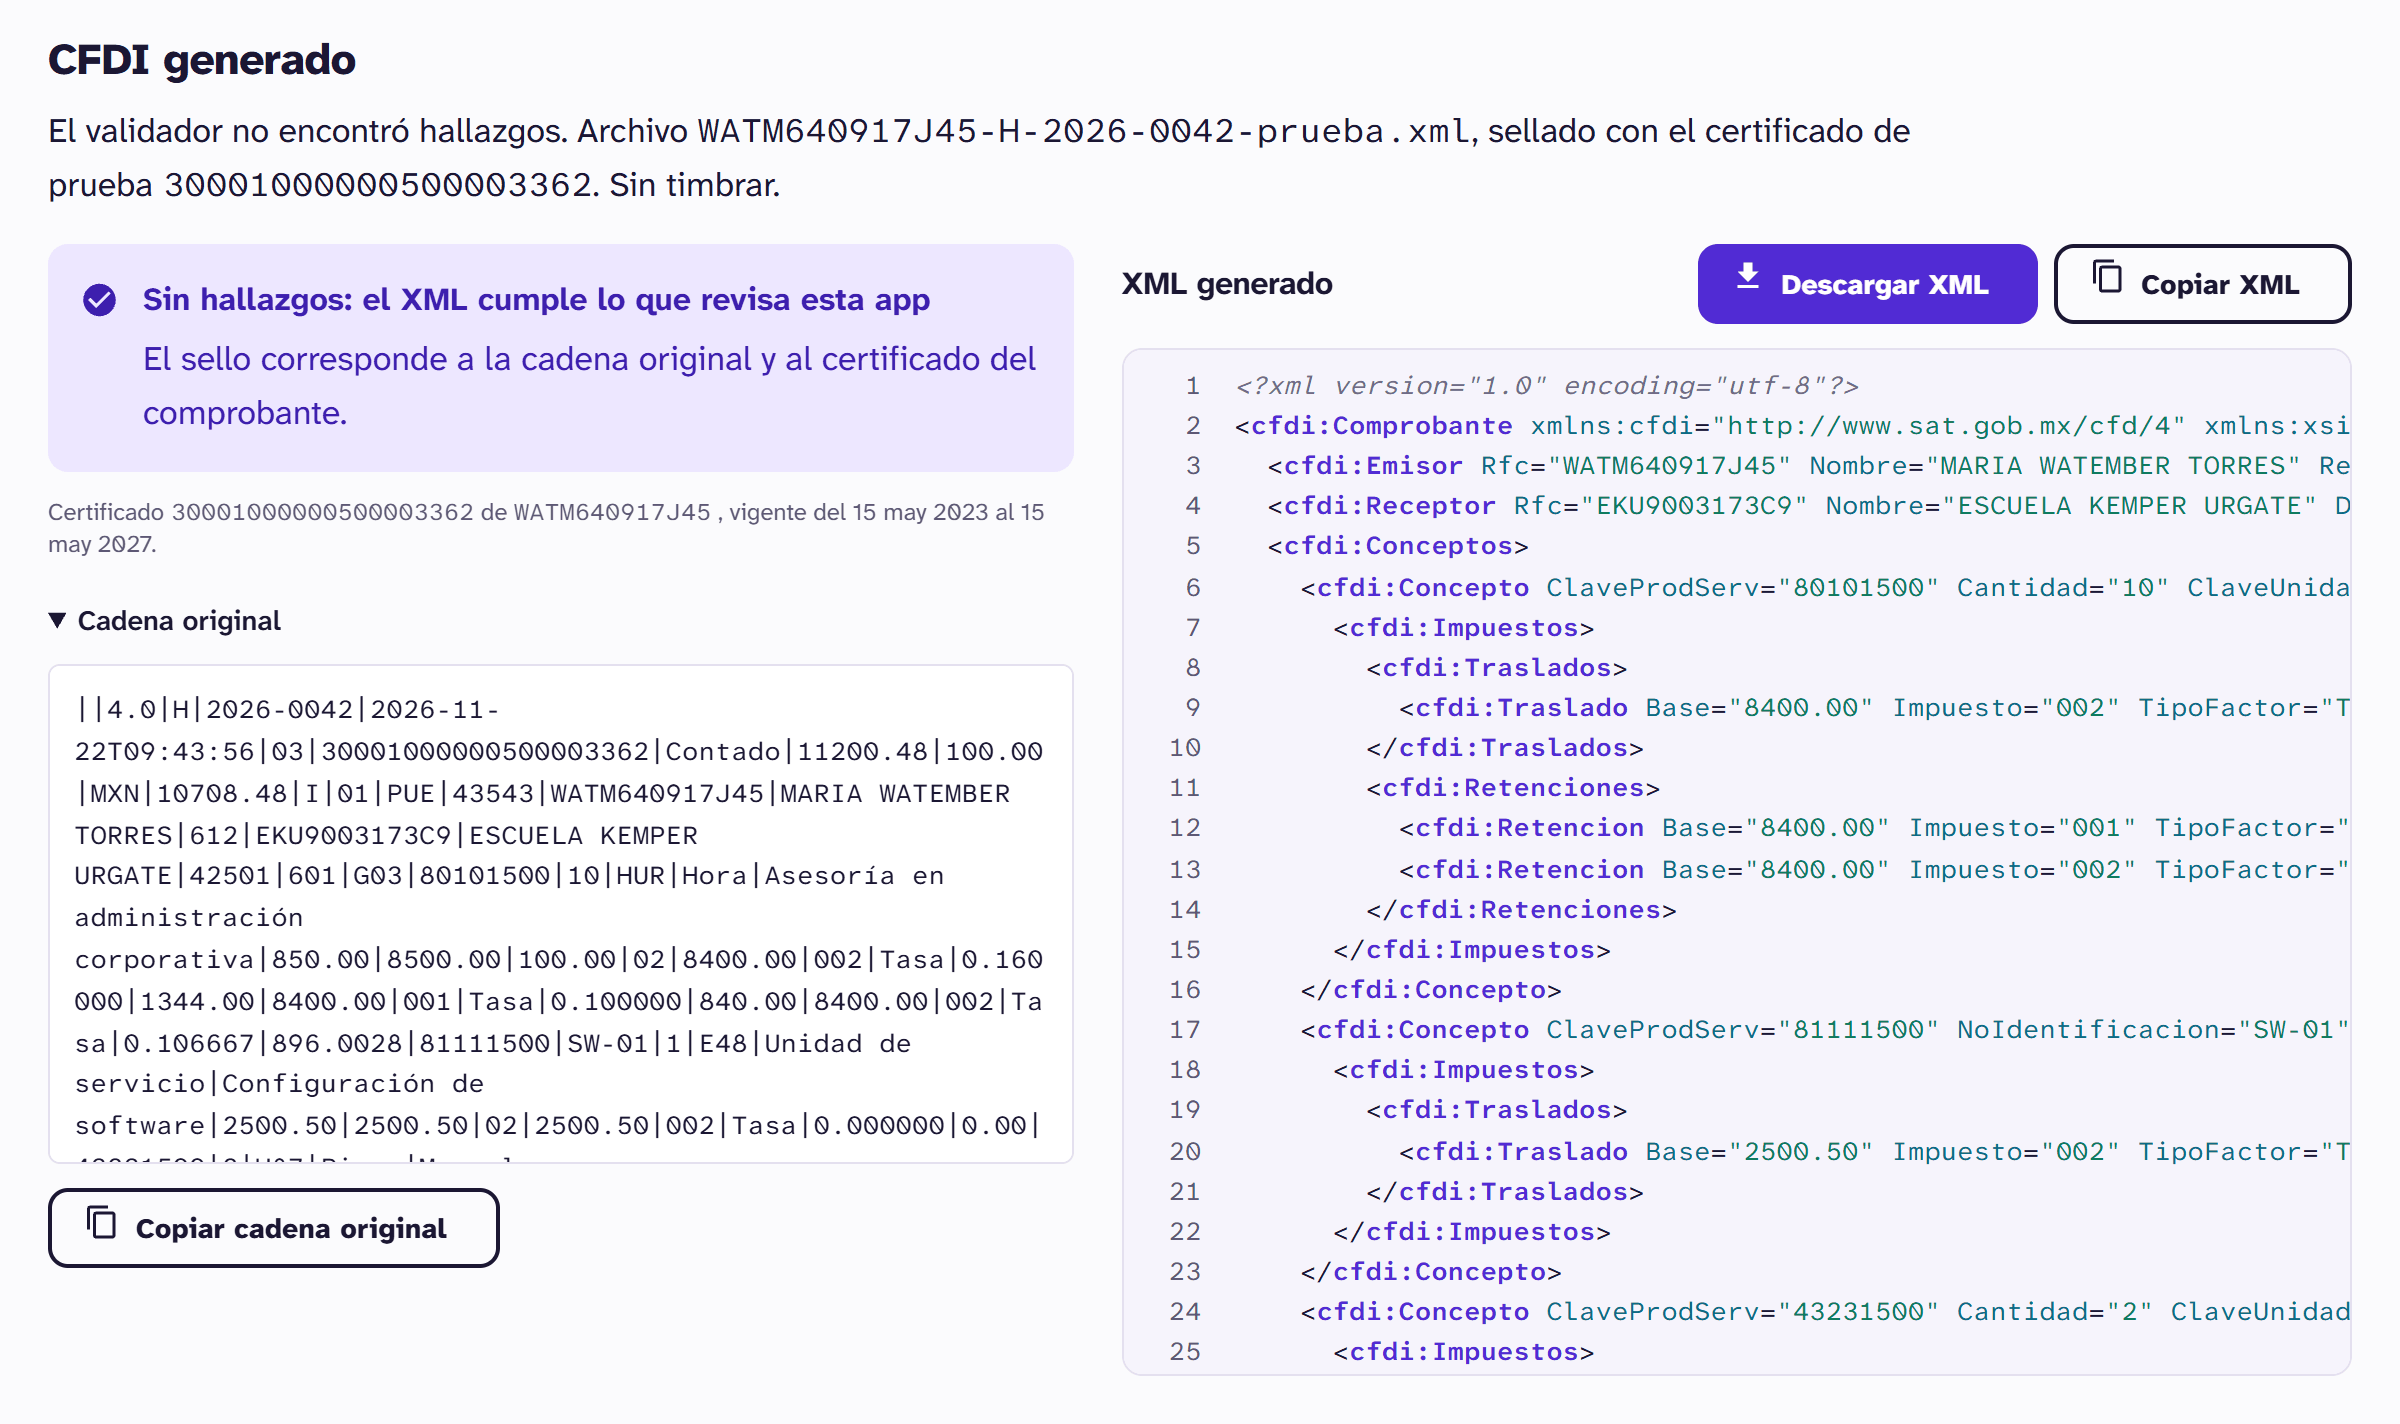
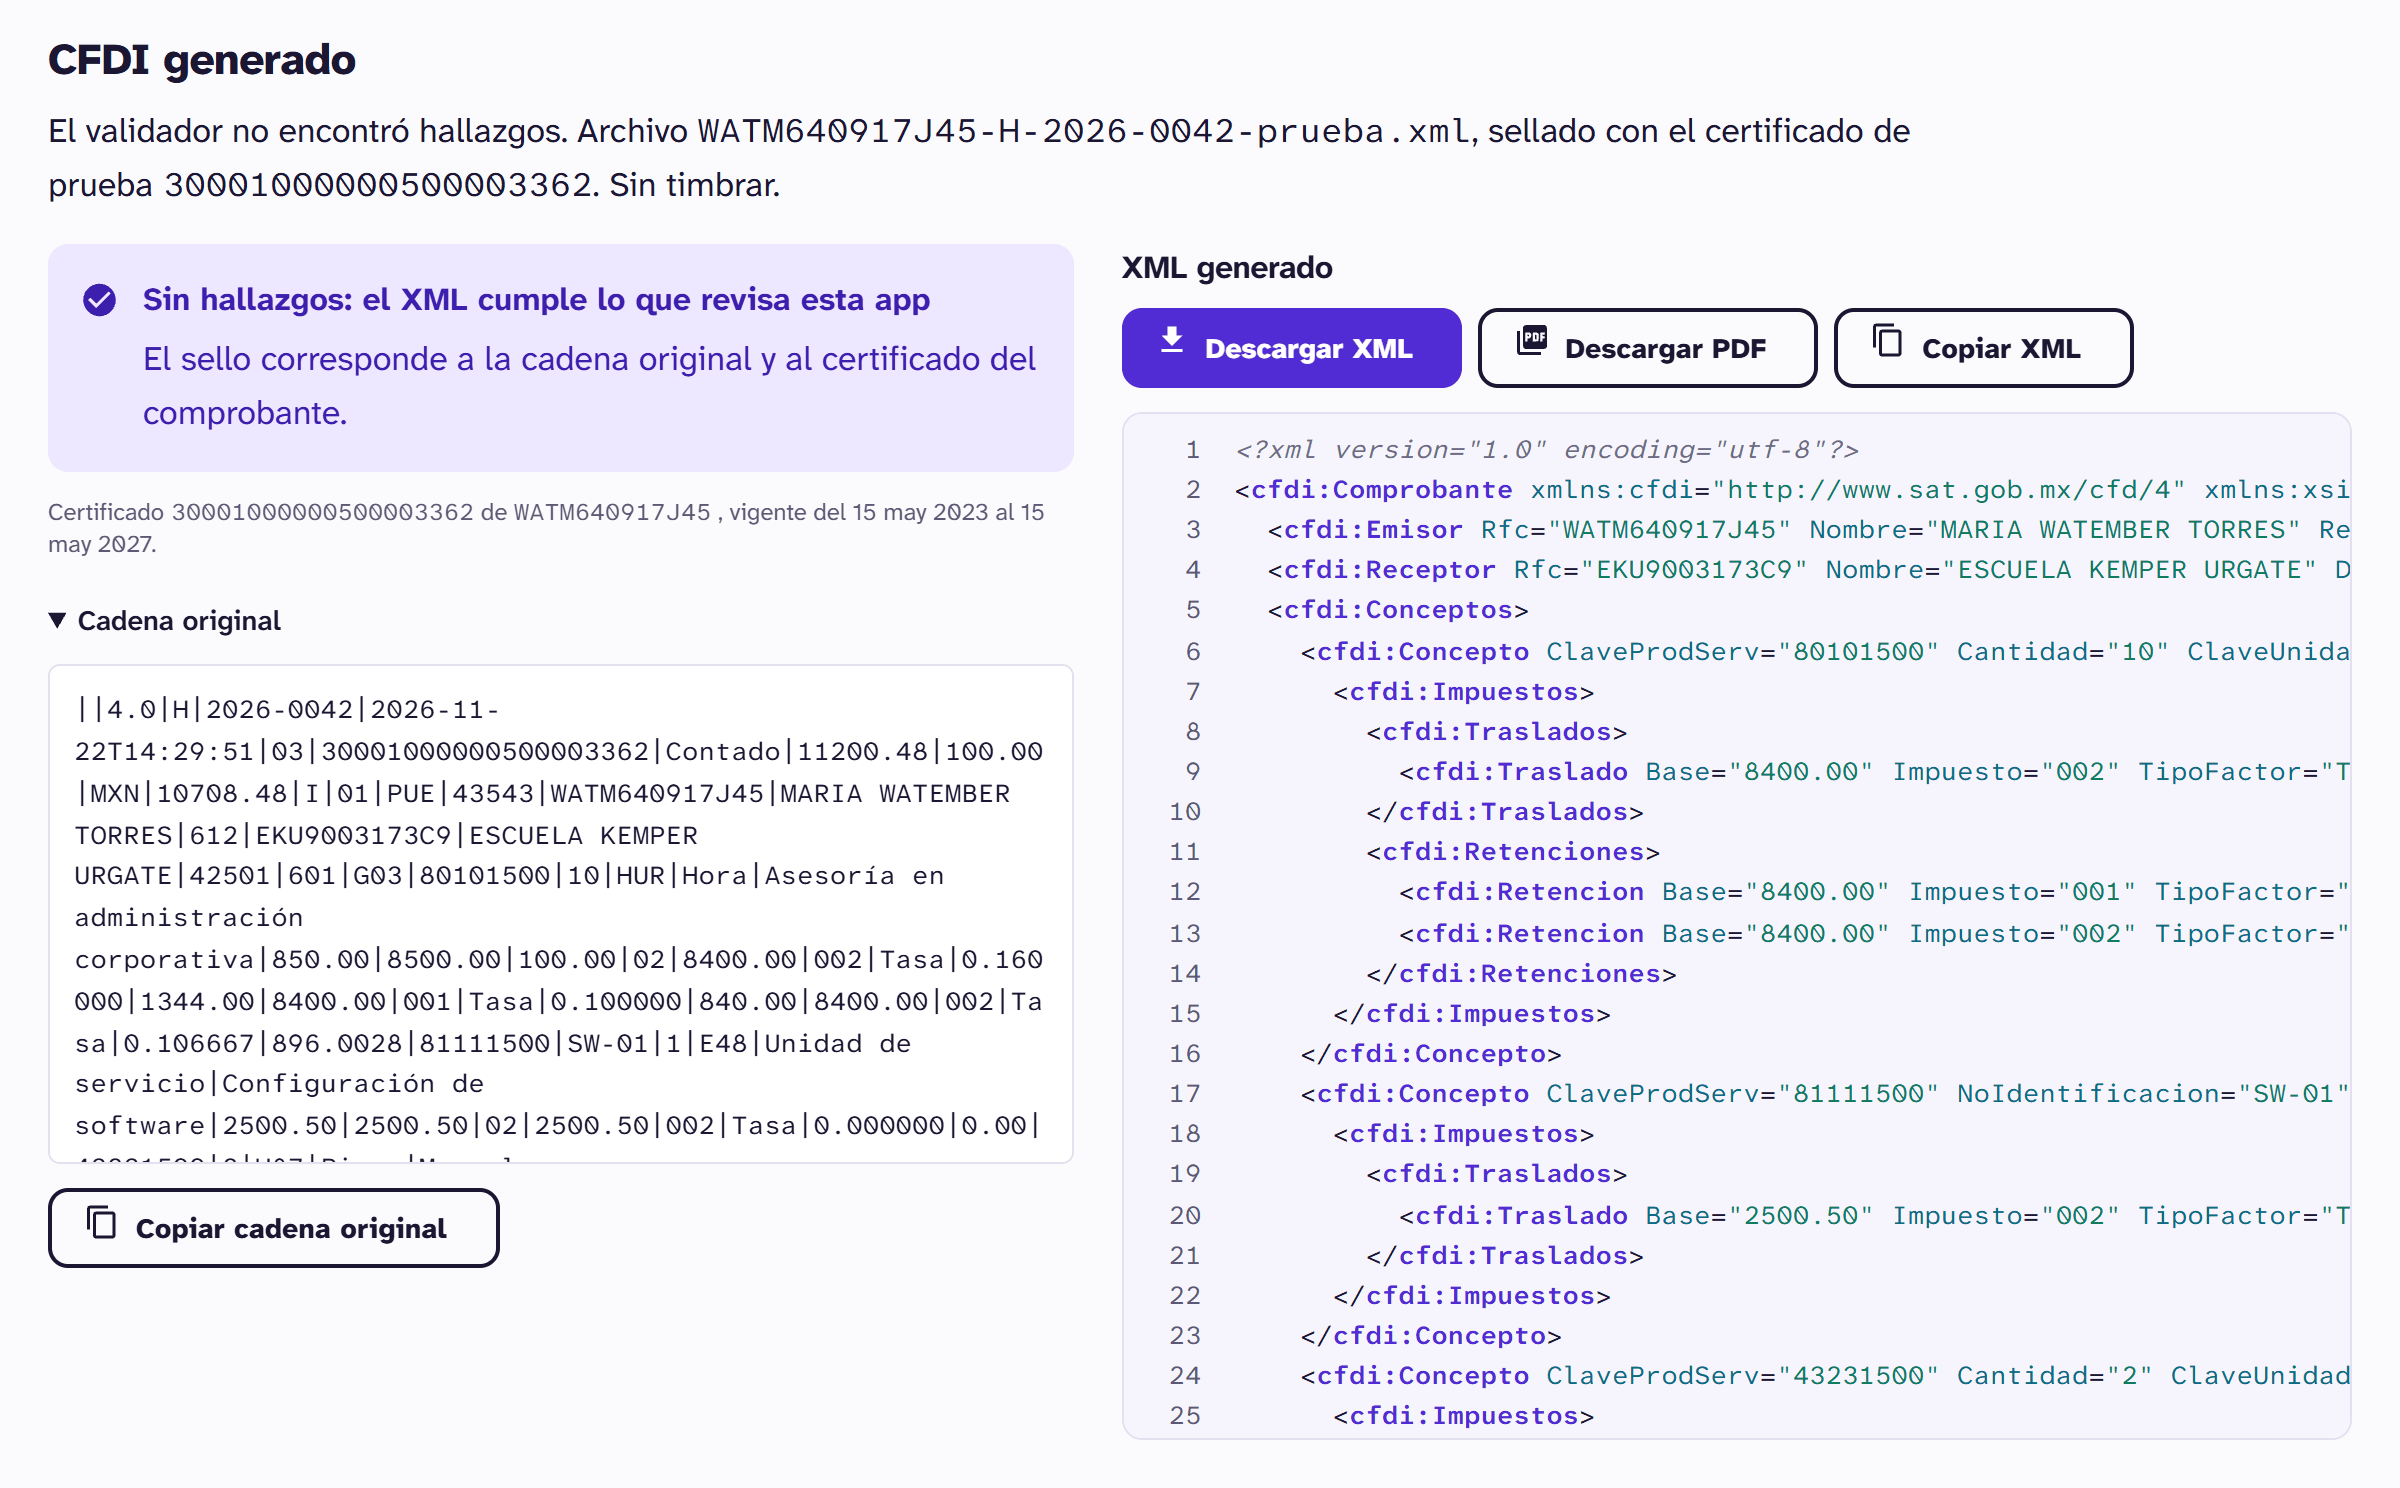
Capturas: el cuadro «Descargar PDF», las dos hojas del PDF y el resultado con su botón nuevo
dialogo-pdf.png es el cuadro abierto sobre el resultado de Generar; pdf-sin-timbre.png y pdf-con-timbre.png son la primera hoja del PDF que dibuja la API (el timbre de la segunda es inventado). resultado.png y validar.png se tomaron de nuevo porque ahora llevan el botón «Descargar PDF» (apagado, con su motivo, cuando el XML tiene errores). Las demás capturas no cambiaron. tomar-capturas.mjs toma ahora el cuadro del PDF y LEEME.md explica cómo se sacaron las hojas del PDF.

Claude-Session: https://claude.ai/code/session_017psnGBzG6LUy5gRmgfS4Sg

diff --git a/docs/capturas/LEEME.md b/docs/capturas/LEEME.md
@@ -1,6 +1,6 @@
 # Capturas del README
 
-`inicio.png`, `inicio-oscuro.png`, `generar.png`, `resultado.png` y `validar.png` salen de la app corriendo, no de un montaje. Las toma [`tomar-capturas.mjs`](tomar-capturas.mjs) con Edge o Chrome sin interfaz, hablándole por el protocolo DevTools. No instala nada: solo necesita Node.js 22 o más reciente (el proyecto usa el 24).
+`inicio.png`, `inicio-oscuro.png`, `generar.png`, `resultado.png`, `dialogo-pdf.png` y `validar.png` salen de la app corriendo, no de un montaje. Las toma [`tomar-capturas.mjs`](tomar-capturas.mjs) con Edge o Chrome sin interfaz, hablándole por el protocolo DevTools. No instala nada: solo necesita Node.js 22 o más reciente (el proyecto usa el 24).
 
 ```bash
 docker compose up -d --build --wait                          # la app en http://localhost:8081
@@ -11,20 +11,33 @@ Si no encuentra el navegador, dile cuál con la variable `NAVEGADOR` (la ruta de
 
 ## Qué hace
 
-Abre cada pantalla con un ancho de 1200 px y al doble de resolución (las imágenes miden 2400 px de ancho), en claro u oscuro según la captura. Usa los ejemplos que ya trae la app, así que todo sale siempre igual: «Con retenciones y descuento» en Generar y «Un CFDI con errores» en Validar. En el resultado de Generar abre la cadena original para que se vea.
+Abre cada pantalla con un ancho de 1200 px y al doble de resolución (las imágenes miden 2400 px de ancho), en claro u oscuro según la captura. Usa los ejemplos que ya trae la app, así que todo sale siempre igual: «Con retenciones y descuento» en Generar y «Un CFDI con errores» en Validar. En el resultado de Generar abre la cadena original para que se vea, y de ahí abre también el cuadro del PDF.
 
 - `inicio.png` e `inicio-oscuro.png`: la página entera.
 - `generar.png`: de arriba hasta el final de la sección del emisor, con los totales en vivo.
-- `resultado.png`: la sección «CFDI generado», después de pulsar «Generar CFDI».
-- `validar.png`: la sección del reporte, con sus cinco hallazgos.
+- `resultado.png`: la sección «CFDI generado», después de pulsar «Generar CFDI», con sus botones de descargar y copiar.
+- `dialogo-pdf.png`: el cuadro «Descargar PDF» abierto sobre ese resultado, con las opciones del logo y de la cadena y los sellos.
+- `validar.png`: la sección del reporte, con sus cinco hallazgos y el botón del PDF apagado mientras el XML tenga errores.
 
 El único dato que cambia entre corridas es el campo `Fecha` del XML generado, que lleva la hora de ese momento. Los datos son los de los certificados de prueba del SAT y los de los ejemplos, no hay nada real.
 
-El script se apoya en los textos de los botones de ejemplo y en las secciones `resultado` y `totales` de la interfaz; si se cambian, avisa qué no encontró y hay que ajustarlo.
+El script se apoya en los textos de los botones de ejemplo, en el botón «Descargar PDF» y en las secciones `resultado` y `totales` de la interfaz; si se cambian, avisa qué no encontró y hay que ajustarlo.
+
+## Las hojas del PDF
+
+`pdf-sin-timbre.png` y `pdf-con-timbre.png` no salen del navegador: son la primera hoja del PDF que dibuja la API para el ejemplo «Con retenciones y descuento», pasada a imagen. Las muestras las escribe una prueba que solo corre si se le dice dónde guardarlas, y la hoja se pasa a imagen con cualquier lector de PDF; aquí se usó `pdftoppm`, de poppler:
+
+```bash
+MUESTRAS_PDF=/tmp/muestras dotnet test backend/tests/Comprobante.UnitTests --filter MuestrasDePdf
+pdftoppm -png -r 120 -f 1 -l 1 -singlefile /tmp/muestras/sin-timbre-ingreso-retenciones.pdf pdf-sin-timbre
+pdftoppm -png -r 120 -f 1 -l 1 -singlefile /tmp/muestras/con-timbre-ingreso-retenciones.pdf pdf-con-timbre
+```
+
+La prueba escribe también las demás muestras (con logo PNG y JPEG, sin cadena ni sellos, de 70 conceptos) para revisarlas a ojo. El timbre de `pdf-con-timbre.png` es inventado, con el UUID de prueba de las pruebas automáticas: la app no timbra, y el PDF solo muestra lo que trae el XML. Los datos del emisor y del receptor son los de los certificados de prueba del SAT.
 
 ## Peso de las imágenes
 
-Al tomarlas, cada una pesa unos 400 KB. Las del repositorio se pasaron por una paleta de 256 colores, que las deja en unos 150 KB sin pérdida que se note en una interfaz de pocos colores. Es opcional:
+Al tomarlas, cada una pesa unos 400 KB. Las del repositorio se pasaron por una paleta de 256 colores, que las deja en unos 150 KB sin pérdida que se note en una interfaz de pocos colores (las dos hojas del PDF, en unos 110 KB). Es opcional:
 
 ```python
 from PIL import Image
